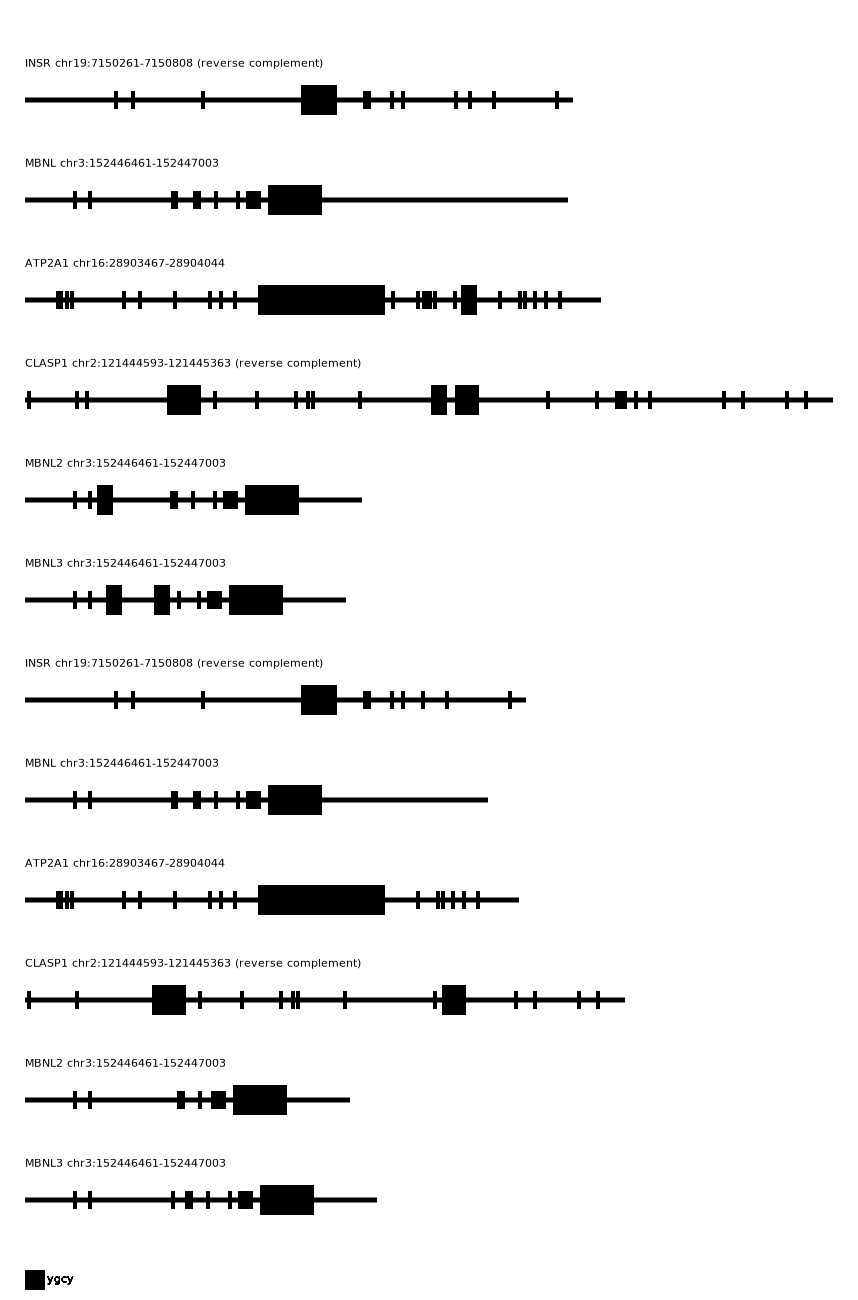
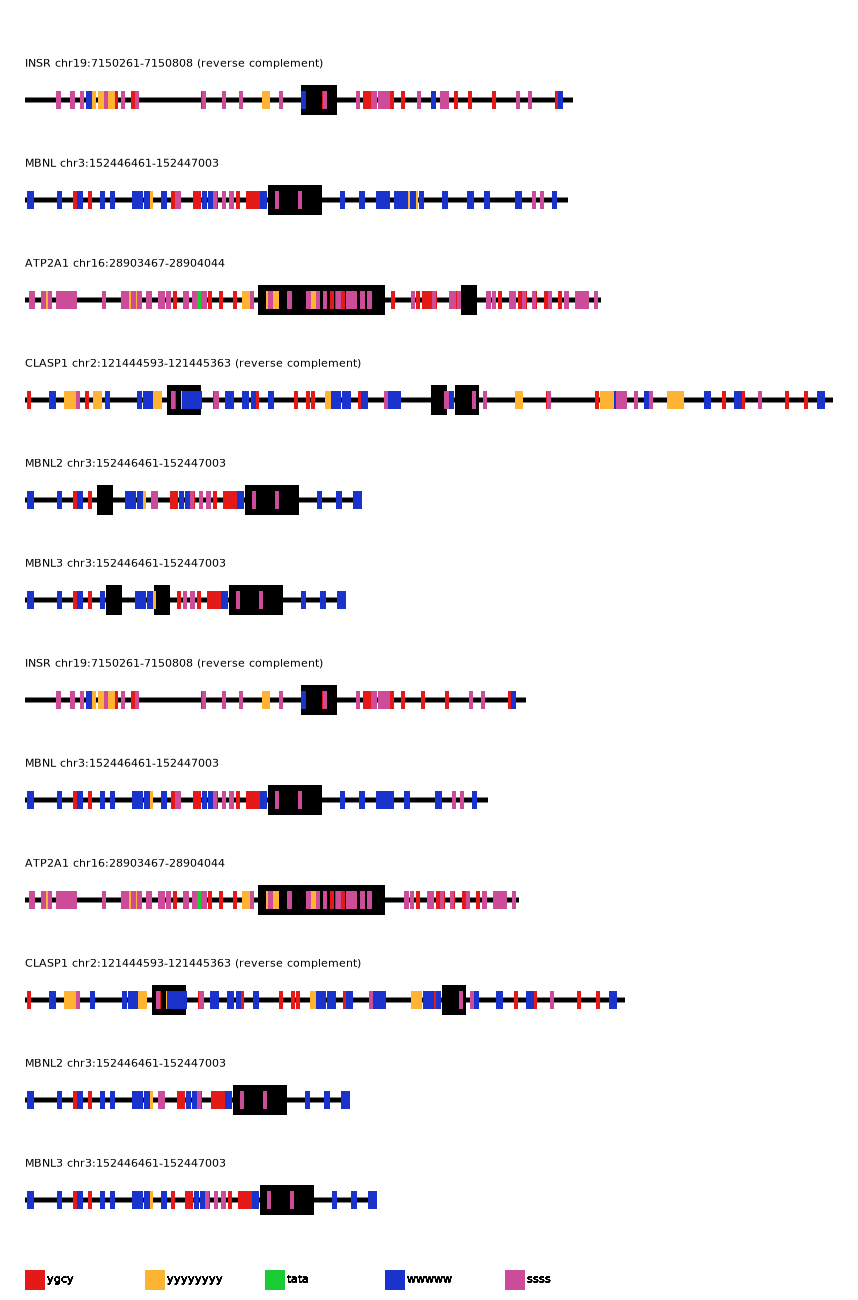
copied oneline fasta code from bioinfo to remove import requirement

diff --git a/motif-mark-oop.py b/motif-mark-oop.py
@@ -6,12 +6,10 @@ import cairo
 import math
 import argparse
 import re
-from bioinfo import oneline_fasta
-
 
 #set up argparse
 def get_args():
-    parser = argparse.ArgumentParser(description="Takes a FASTA file with exons denoted in CAPS, and a motif text file with one motif per line (case insensitive). Outputs one .png with one image per sequence of motif and exon positions on the sequence. Aware of ambiguous nucleotides and inclusive of 'n's in sequence. e.g., 'ygcy' will match to 'tgnc'")
+    parser = argparse.ArgumentParser(description="Takes a FASTA file with exons denoted in CAPS, and a motif text file with one motif per line, max 5 motifs (case insensitive). Outputs one .png with one image per sequence of motif and exon positions on the sequence. Aware of ambiguous nucleotides and inclusive of 'n's in sequence. e.g., 'ygcy' will match to 'tgnc'")
     parser.add_argument("-f", "--fastafile", help="FASTA file to read", required=True, type=str)
     parser.add_argument("-m", "--motiffile", help="Motif text file to read", required=True, type=str)
     return parser.parse_args()
@@ -50,16 +48,14 @@ class Motif:
         # Data # 
         # attributes for getting positions # 
         self.sequence = motifsequence.lower()
-        self.position = None
         self.regex = None
         self.number:int = number+1
         self.label = None 
         
         # attributes for drawing # 
-        self.color = None
-        self.red:float = None
-        self.green:float = None
-        self.blue:float = None
+        self.red = float
+        self.green = float
+        self.blue= float
     
     def __repr__(self):
         return(f'{self.sequence}')
@@ -107,13 +103,10 @@ class Motif:
        return
     
     def colorit(self):
-        # generate rgb colors # 
-        # self.red:float = 1-((2*(self.number))-2)/10
-        # self.green:float = (2*(self.number))/10 
-        # self.blue:float = 1-((2*(self.number))-2)/10 
-        self.red:float = math.log10(self.number)
-        self.green:float = math.log10(self.number)
-        self.blue:float = math.log10(self.number)
+        # generate rgb colors limit 5 # 
+        colors: list = [["red", (0.9, 0.1, 0.1)], ["yellow", (1.0, 0.7, 0.2)], ["green", (0.1, 0.8, 0.2)], ["blue", (0.1, 0.2, 0.8)], ["pink", (0.8, 0.3, 0.6)]]
+        index = self.number-1
+        self.red, self.green, self.blue = colors[index][1]
         return
 
 class Canvas: # the canvas I will be drawing on # 
@@ -126,6 +119,25 @@ class Canvas: # the canvas I will be drawing on #
         self.xlabel = ((totalsequences+1)*self.constant)-30
         
 # >> define functions << # 
+
+# from bioinfo.py. including here so bioinfo.py is not a required import # 
+def oneline_fasta(readfile, writefile):
+    '''Converts a fasta file with multiple sequence lines per record to one sequence line per record.'''
+    with open(readfile, "r") as readfh, open(writefile, "w") as writefh:
+        seq = ""
+        while True:
+            line = readfh.readline().strip()
+            if not line:
+                break
+            if line.startswith(">"):
+                if seq != "":
+                    writefh.write(f"{seq}\n")
+                seq = ""
+                writefh.write(f"{line}\n")
+            else:
+                seq += line
+        writefh.write(seq)
+        return
 
 # read in motifs into list # 
 def parse_motif(motiffile: str) -> list:
@@ -238,13 +250,14 @@ if __name__ == "__main__":
             for motif in motif_obj_list:
                 # find where motifs (regex matches) are positionally in sequence #
                 motifpositions = []
-                # find more info on r strings and variables in r strings here: https://stackoverflow.com/questions/6930982/how-to-use-a-variable-inside-a-regular-expression # 
+                # find more info on r strings and variables in r strings in the readme resources section. # 
                 matches = re.finditer(r'(?=(' + motif.regex + '))', sequence.gensequence) # creates iterable match object called "matches"
                 for match in matches:
                     start = match.span()[0] # span returns the position match. for finditer with ?= lookahead it's a tuple of (start,start). I only need one of those values so use [0]
                     end = start + len(motif.sequence) # calculate the end of the motif by adding the length of the motif.
                     position = (start, end)
                     motifpositions.append(position)
+
                 for start,finish in motifpositions:
                     context.set_source_rgb(motif.red, motif.green, motif.blue)
                     context.set_line_width(18)
@@ -264,8 +277,7 @@ if __name__ == "__main__":
                 context.show_text(motif.label)
                 context.stroke()
 
-        
-        
+              
         # save #
         surface.write_to_png(pngfilename) 
 

diff --git a/readme.md b/readme.md
@@ -11,9 +11,11 @@ This program takes a FASTA file with exons denoted in caps, and a motif text fil
 
 to do:
 fix motif colors
-fix regex to accurately get all overlapping motifs 
+## Resources 
 
 see info on re https://docs.python.org/3/howto/regex.html 
+see info on using variables in re  https://stackoverflow.com/questions/6930982/how-to-use-a-variable-inside-a-regular-expression
+
 
 how to write a readme: 
  https://www.freecodecamp.org/news/how-to-write-a-good-readme-file/
